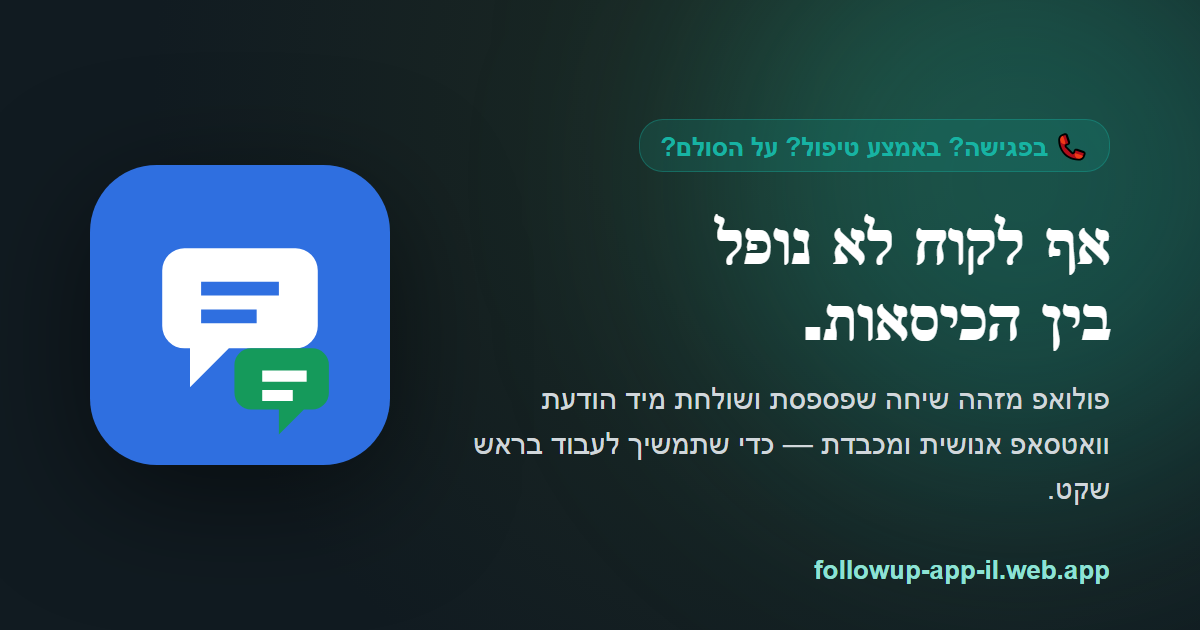
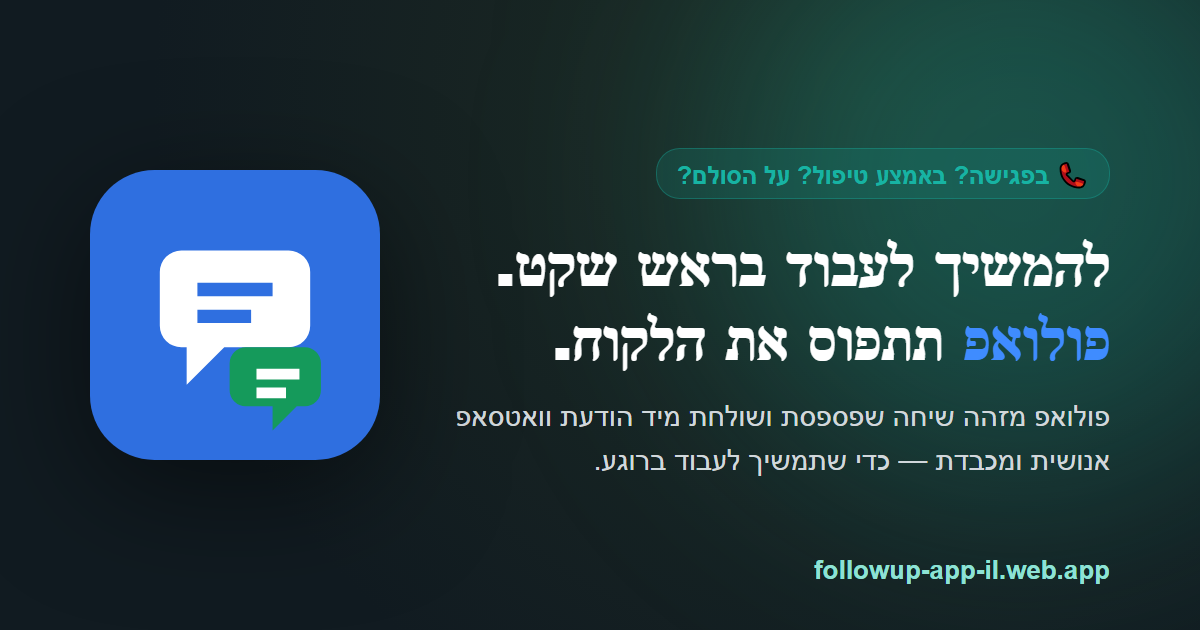
feat: hero קומפקטי — סימולציה מיד עם הכותרת, תת-כותרת מתחת
- כותרת+סימולציה נכנסים למסך הראשון (phone 240x500, padding מצומצם)
- תת-כותרת 'אין צורך להילחץ' הועברה מתחת לסימולציה
- og-image עודכן לקופי החדש (להמשיך לעבוד בראש שקט)

diff --git a/public/index.html b/public/index.html
@@ -49,7 +49,7 @@
         }
         .container { width: 100%; max-width: 1200px; margin: 0 auto; padding: 0 24px; }
         h1, h2, h3 { line-height: 1.2; }
-        h1 { font-size: clamp(2.5rem, 5vw, 4rem); font-weight: 800; color: #fff; margin-bottom: 20px; }
+        h1 { font-size: clamp(1.8rem, 4.2vw, 2.8rem); font-weight: 800; color: #fff; margin-bottom: 0; line-height: 1.25; letter-spacing: -0.5px; }
         h2 { font-size: 2.2rem; font-weight: 800; margin-bottom: 16px; text-align: center; }
         .btn {
             display: inline-flex; align-items: center; justify-content: center; gap: 10px;
@@ -59,36 +59,37 @@
         }
         .btn:hover { transform: translateY(-3px); box-shadow: 0 12px 30px rgba(63, 140, 255, 0.4); }
         .btn-note { display: block; font-size: 0.9rem; color: #a0aab2; margin-top: 12px; font-weight: 500; }
-        .hero { background: linear-gradient(135deg, var(--ink) 0%, #1e2d24 100%); padding: 80px 0 100px; position: relative; overflow: hidden; }
-        .hero-wrapper { display: flex; flex-direction: column; align-items: center; text-align: center; gap: 60px; }
-        .hero-content { max-width: 600px; }
+        .hero { background: radial-gradient(circle at top center, #1e2d24 0%, var(--ink) 80%); padding: 32px 0 44px; position: relative; overflow: hidden; }
+        .hero-wrapper { display: flex; flex-direction: column; align-items: center; text-align: center; gap: 14px; }
+        .hero-head { max-width: 680px; }
+        .hero-foot { max-width: 620px; }
         .hero-pill {
             display: inline-flex; align-items: center; gap: 6px;
             background: rgba(23, 179, 163, 0.15); color: var(--accent);
             border: 1px solid rgba(23, 179, 163, 0.3);
             padding: 5px 14px; border-radius: 20px; font-size: 0.85rem; font-weight: 700;
-            margin-bottom: 16px;
+            margin-bottom: 12px;
         }
         .brand-name { color: var(--primary); font-weight: 800; }
-        .subtitle { font-size: 1.25rem; font-weight: 400; margin-bottom: 40px; color: #d1d7db; }
+        .subtitle { font-size: 1.05rem; font-weight: 400; margin-bottom: 20px; color: #d1d7db; line-height: 1.6; }
         /* 3D floating wrapper + ambient backlight */
         .phone-stage {
             position: relative; display: flex; align-items: center; justify-content: center;
-            perspective: 1200px; padding: 20px 0; width: 100%;
+            perspective: 1000px; padding: 6px 0; width: 100%;
         }
         .phone-wrapper {
             position: relative; z-index: 2; transform-style: preserve-3d;
-            width: 300px; height: 630px; max-width: 82vw;
-            transform: rotateX(6deg) rotateY(-8deg) rotateZ(2deg);
+            width: 240px; height: 500px; max-width: 74vw;
+            transform: rotateX(5deg) rotateY(-4deg) rotateZ(1deg);
             animation: float3D 6s ease-in-out infinite alternate;
         }
         @keyframes float3D {
-            0% { transform: rotateX(6deg) rotateY(-8deg) rotateZ(2deg) translateY(0); }
-            100% { transform: rotateX(8deg) rotateY(-4deg) rotateZ(1deg) translateY(-14px); }
+            0% { transform: rotateX(5deg) rotateY(-4deg) rotateZ(1deg) translateY(0); }
+            100% { transform: rotateX(7deg) rotateY(-1deg) rotateZ(0deg) translateY(-10px); }
         }
         .ambient-glow {
-            position: absolute; width: 360px; height: 480px; max-width: 90%;
-            background: rgba(23,179,163,0.35); filter: blur(90px); border-radius: 50%;
+            position: absolute; width: 300px; height: 380px; max-width: 90%;
+            background: rgba(23,179,163,0.35); filter: blur(75px); border-radius: 50%;
             z-index: 1; transition: background 0.8s ease;
             animation: pulseGlow 4s ease-in-out infinite alternate;
         }
@@ -242,10 +243,6 @@
         }
         footer { text-align: center; padding: 40px; color: #a0aab2; font-size: 0.9rem; background: var(--ink); border-top: 1px solid rgba(255,255,255,0.05); }
         @media (min-width: 768px) {
-            .hero-wrapper { flex-direction: row; text-align: right; justify-content: space-between; }
-            .hero-content { flex: 1; padding-left: 40px; }
-            .subtitle { margin-inline: 0; }
-            .btn-note { text-align: right; }
             .grid-3 { grid-template-columns: repeat(3, 1fr); }
             .trust-features { grid-template-columns: 1fr 1fr; }
         }
@@ -255,15 +252,9 @@
 
     <header class="hero">
         <div class="container hero-wrapper">
-            <div class="hero-content">
+            <div class="hero-head">
                 <div class="hero-pill">📞 בפגישה? באמצע טיפול? על הסולם?</div>
                 <h1>להמשיך לעבוד בראש שקט.<br><span class="brand-name">פולואפ</span> תתפוס את הלקוח.</h1>
-                <p class="subtitle">אין צורך להילחץ משיחה שלא נענתה, ואין סיבה לעצור הכל. פולואפ מזהה שלא הייתה לך אפשרות לענות, ושולחת מיד הודעת וואטסאפ אנושית ומכבדת. הלקוחות מרגישים שראו אותם, נשארים איתך — ומאפשרים לך להמשיך לעבוד ברוגע.</p>
-                <a href="install.html" class="btn">
-                    <svg width="24" height="24" viewBox="0 0 24 24" fill="none" stroke="currentColor" stroke-width="2.5" stroke-linecap="round" stroke-linejoin="round"><path d="M21 15v4a2 2 0 0 1-2 2H5a2 2 0 0 1-2-2v-4"/><polyline points="7 10 12 15 17 10"/><line x1="12" y1="15" x2="12" y2="3"/></svg>
-                    הורדת בטא חינם
-                </a>
-                <span class="btn-note">אנדרואיד · הנתונים על המכשיר שלך · התחברות בקוד וואטסאפ</span>
             </div>
 
             <div class="phone-stage">
@@ -335,6 +326,15 @@
                         </div>
                     </div>
                 </div>
+            </div>
+
+            <div class="hero-foot">
+                <p class="subtitle">אין צורך להילחץ משיחה שלא נענתה, ואין סיבה לעצור הכל. פולואפ מזהה שלא הייתה לך אפשרות לענות, ושולחת מיד הודעת וואטסאפ אנושית ומכבדת. הלקוחות מרגישים שראו אותם, נשארים איתך — ומאפשרים לך להמשיך לעבוד ברוגע.</p>
+                <a href="install.html" class="btn">
+                    <svg width="24" height="24" viewBox="0 0 24 24" fill="none" stroke="currentColor" stroke-width="2.5" stroke-linecap="round" stroke-linejoin="round"><path d="M21 15v4a2 2 0 0 1-2 2H5a2 2 0 0 1-2-2v-4"/><polyline points="7 10 12 15 17 10"/><line x1="12" y1="15" x2="12" y2="3"/></svg>
+                    הורדת בטא חינם
+                </a>
+                <span class="btn-note">אנדרואיד · הנתונים על המכשיר שלך · התחברות בקוד וואטסאפ</span>
             </div>
         </div>
     </header>
